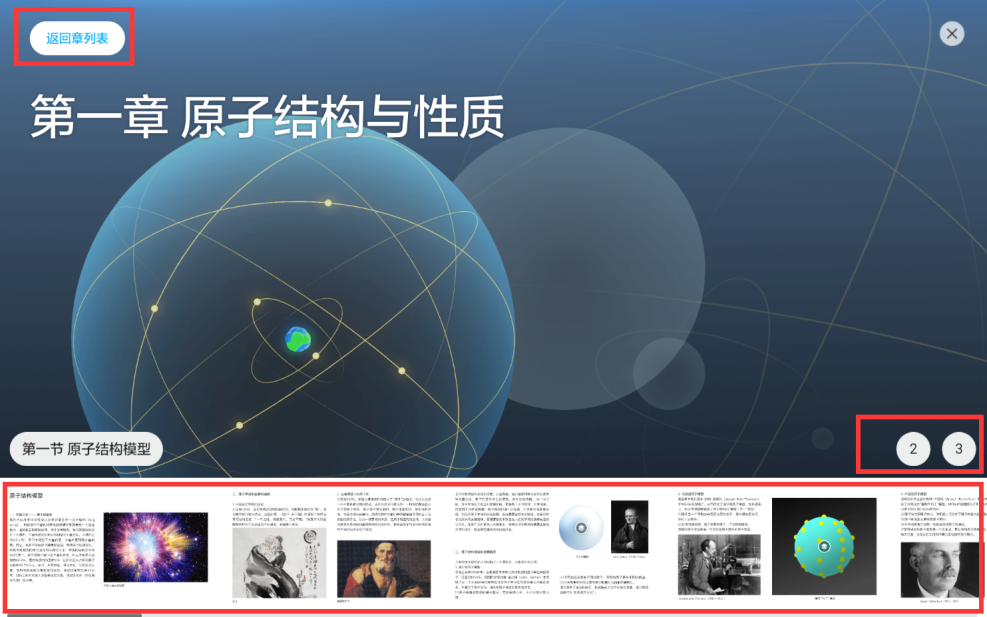
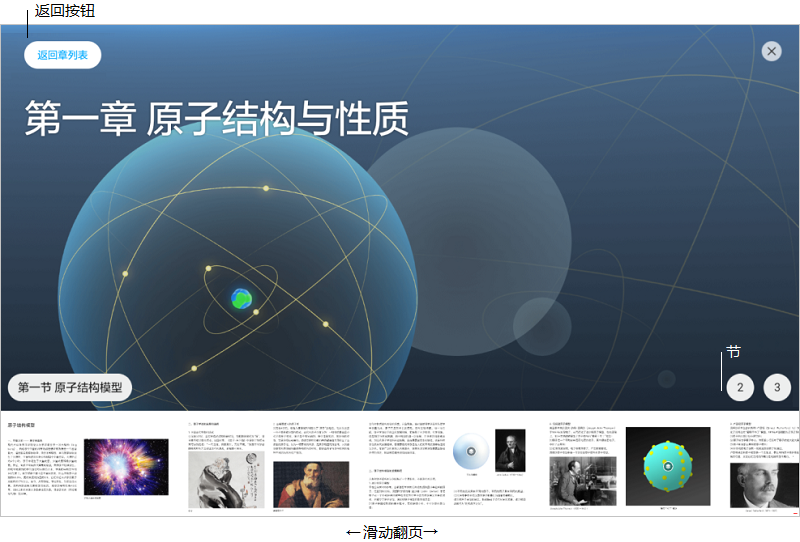
3

diff --git a/pages/mydoc/mydoc_ebooks.md b/pages/mydoc/mydoc_ebooks.md
@@ -32,17 +32,11 @@ folder: mydoc
 
 &#160; &#160; &#160; &#160;在书架中下载完成的教科书，离线可查看，单击封面打开。
 
-#### 选择章节
+#### 翻阅与阅读
 
 &#160; &#160; &#160; &#160;滑动选择“章”，“节”，也可在每一章内点选右下角节数，点击左上角“返回章列表”可重新选择。
 
 ![avatar](images/0005选择章节.png)
-
-#### 翻页与阅读
-
-&#160; &#160; &#160; &#160;在每一节内滑动下方页面单击即可进入相应位置，点击每页右上角“返回章节”可重新选择。
-
-![avatar](images/0005翻页与阅读.png)
 
 #### <font size="3" face="微软雅黑">素材播放
 
